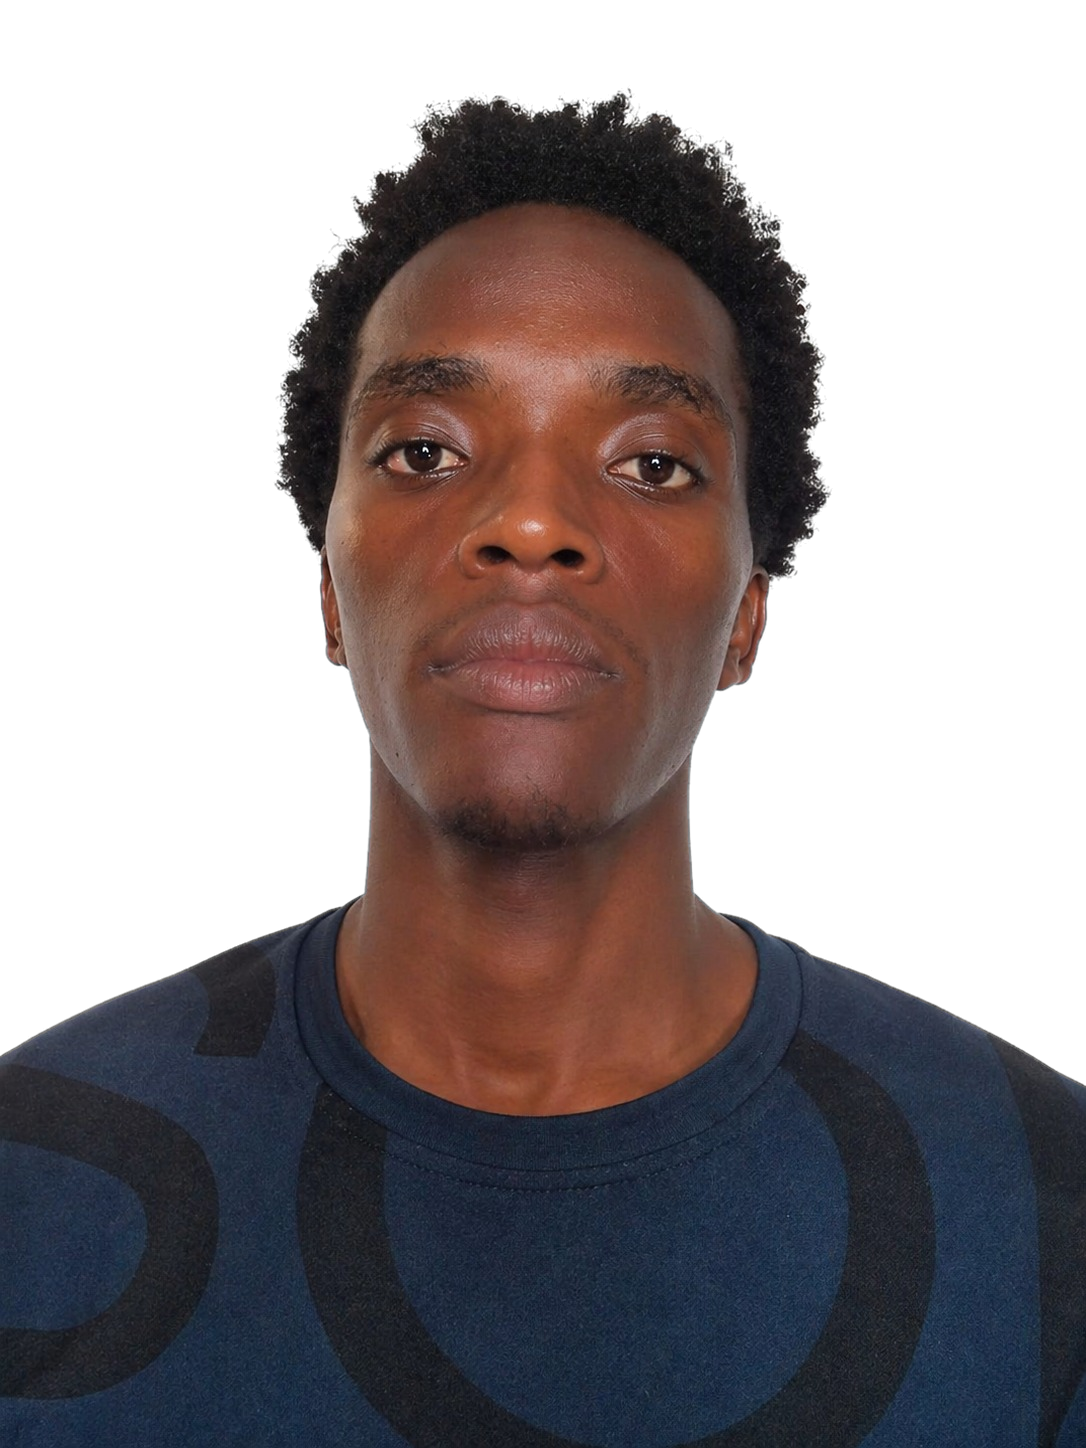
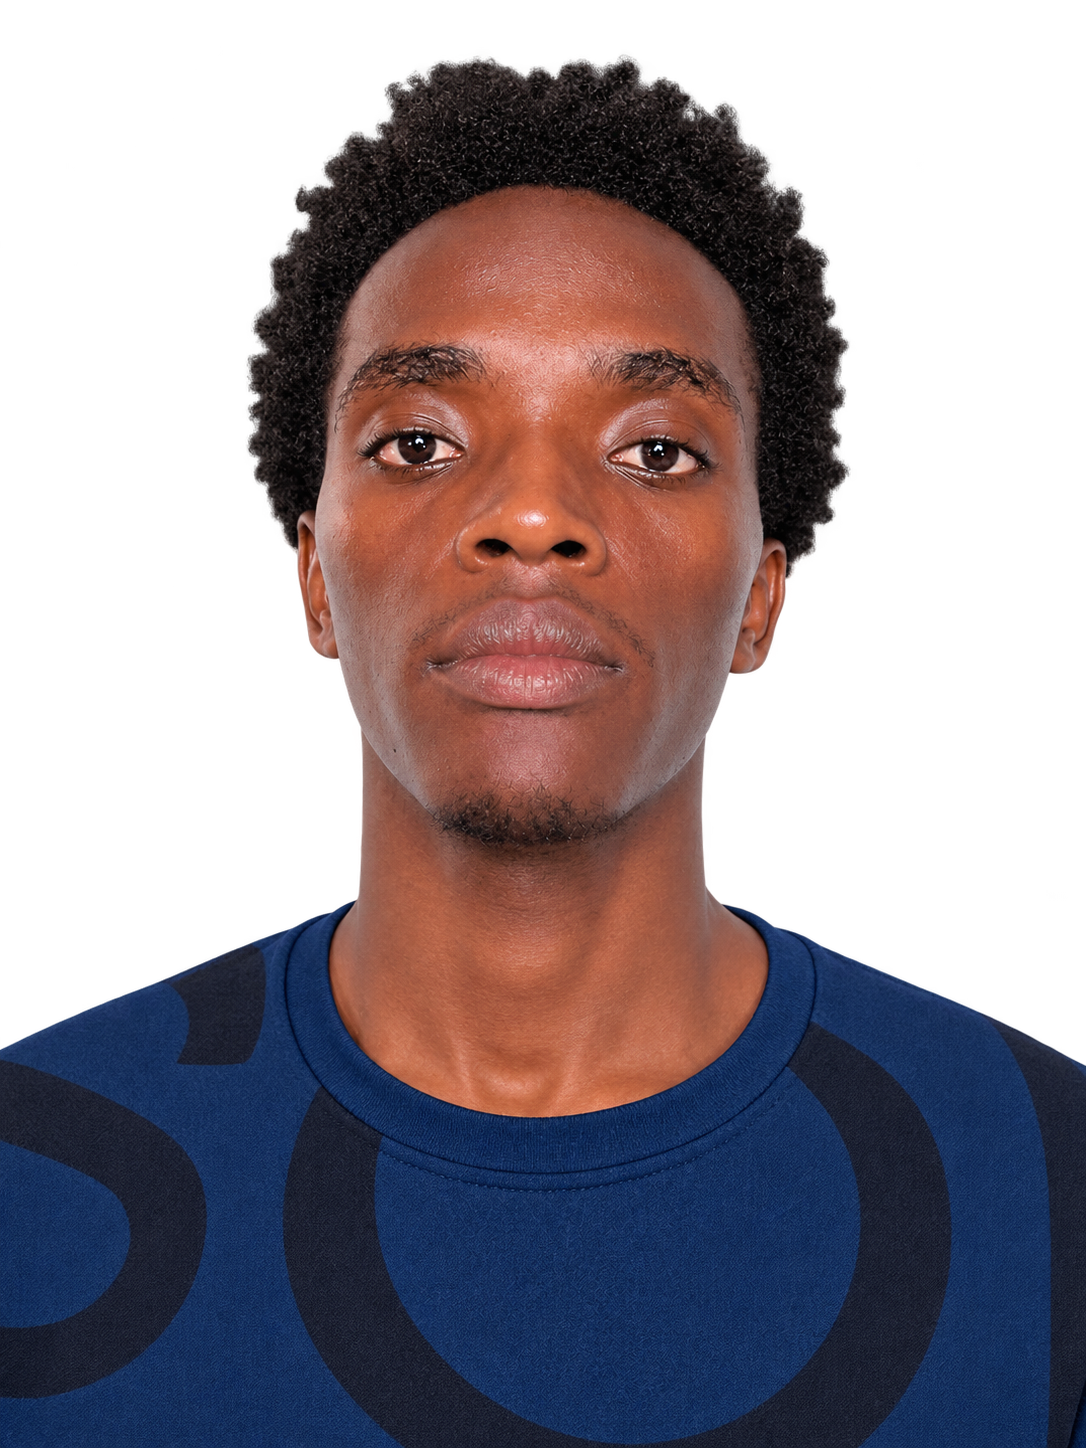
feat(assets): replace portrait with user-provided high-res cutout and apply drop-shadow depth grading

diff --git a/styles.css b/styles.css
@@ -443,7 +443,7 @@ section {
   position: relative;
   border-radius: 20px;
   overflow: hidden;
-  background: #0d0d10;
+  background: radial-gradient(circle at 50% 30%, rgba(56, 189, 248, 0.22), rgba(129, 140, 248, 0.14), #0d0d10 75%);
   border: 1px solid rgba(255, 255, 255, 0.08);
 }
 
@@ -453,7 +453,7 @@ section {
   height: 480px;
   object-fit: cover;
   object-position: center top;
-  filter: contrast(1.05) brightness(0.98);
+  filter: drop-shadow(0 15px 30px rgba(0, 0, 0, 0.65)) contrast(1.04);
   transition: transform 0.3s var(--ease-smooth);
 }
 
